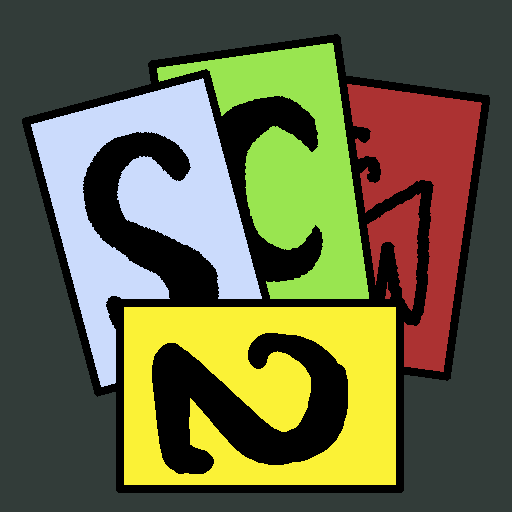
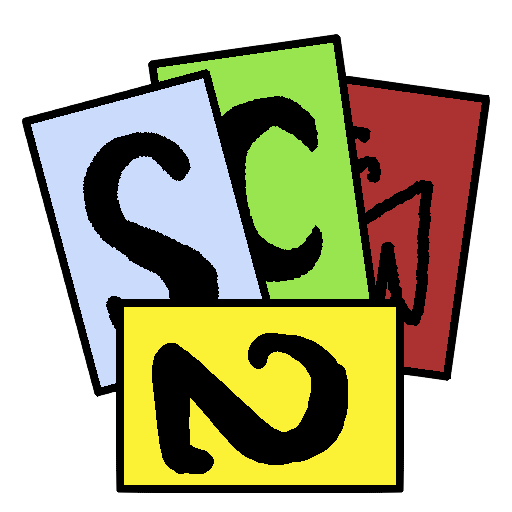
Fix for #15

diff --git a/github/CHANGELOG.md b/github/CHANGELOG.md
@@ -1,5 +1,9 @@
 # Changelog
 
+## Version 2.11
+
+- **CardHand Input Order Fix** — `CardHand` now syncs its child node order to the internal `cards` array during layout/reordering. This keeps hover, mouse enter/exit, and focus behavior aligned with the visible card stacking order when cards overlap.
+
 ## Version 2.10
 
 - **Editor Layout Preview** — `Card` is now `@tool`. Cards placed in the editor show their actual layout template (panels, borders, textures) at the correct size instead of a blank rectangle. Card size is read from the layout's SubViewport.